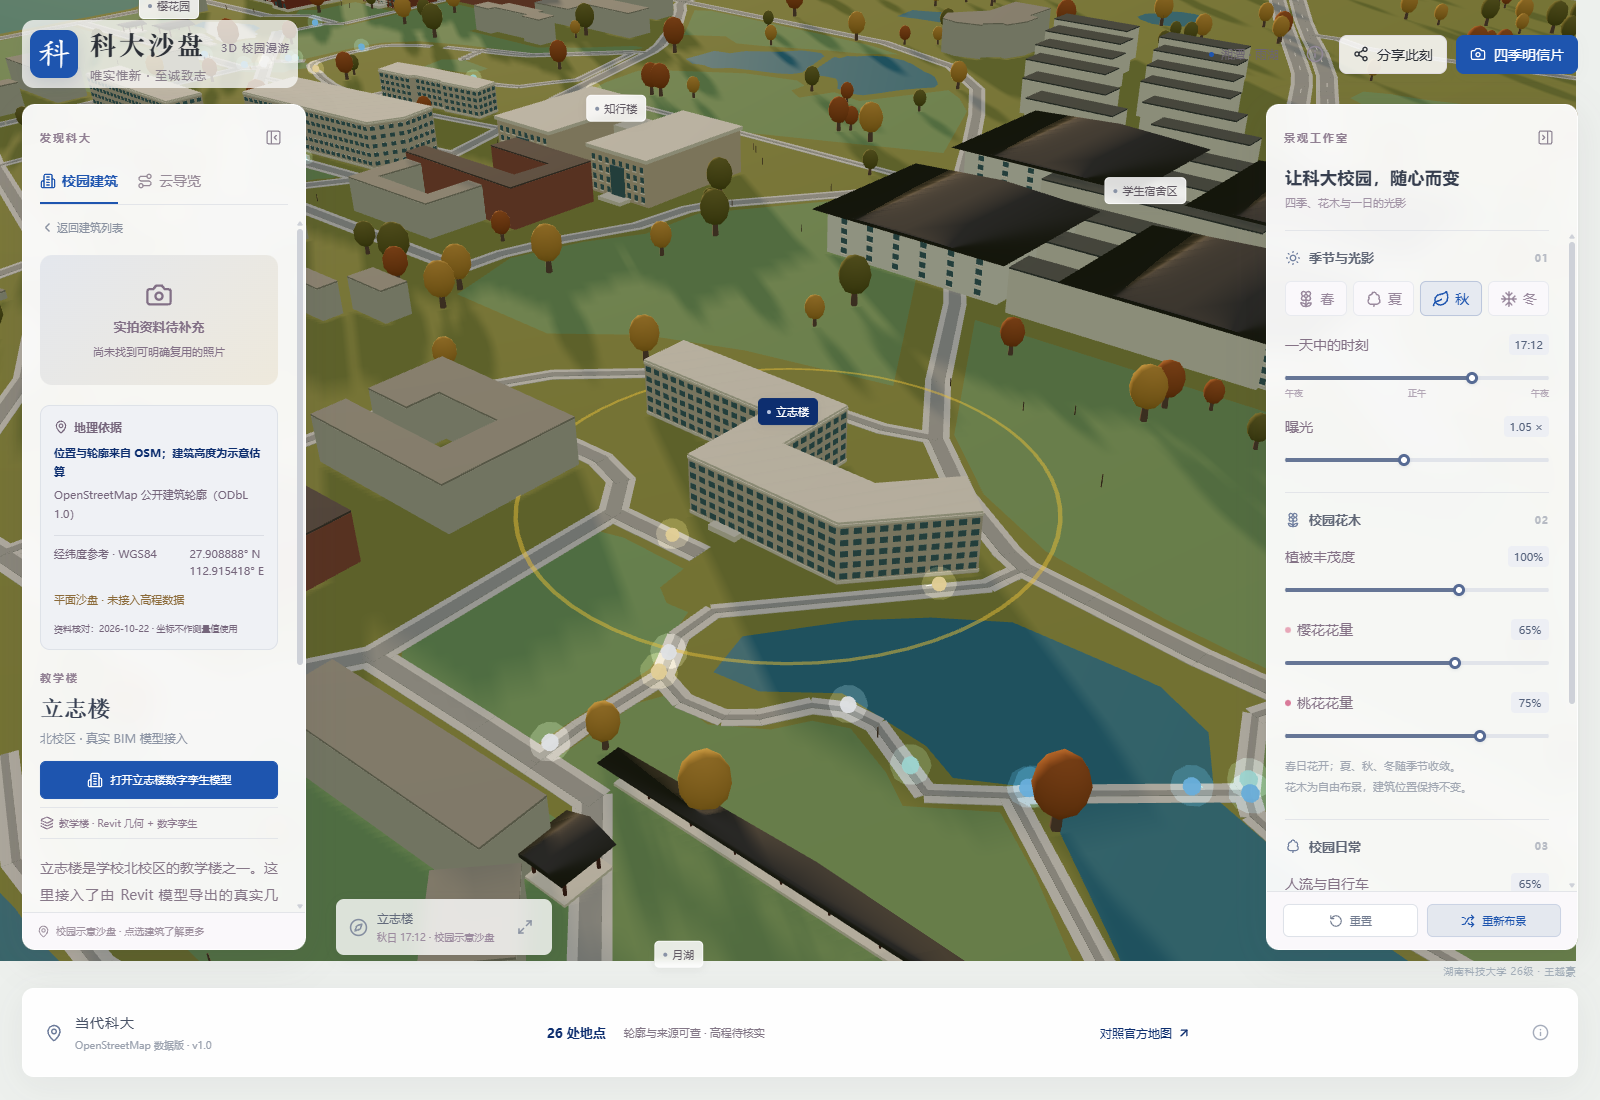
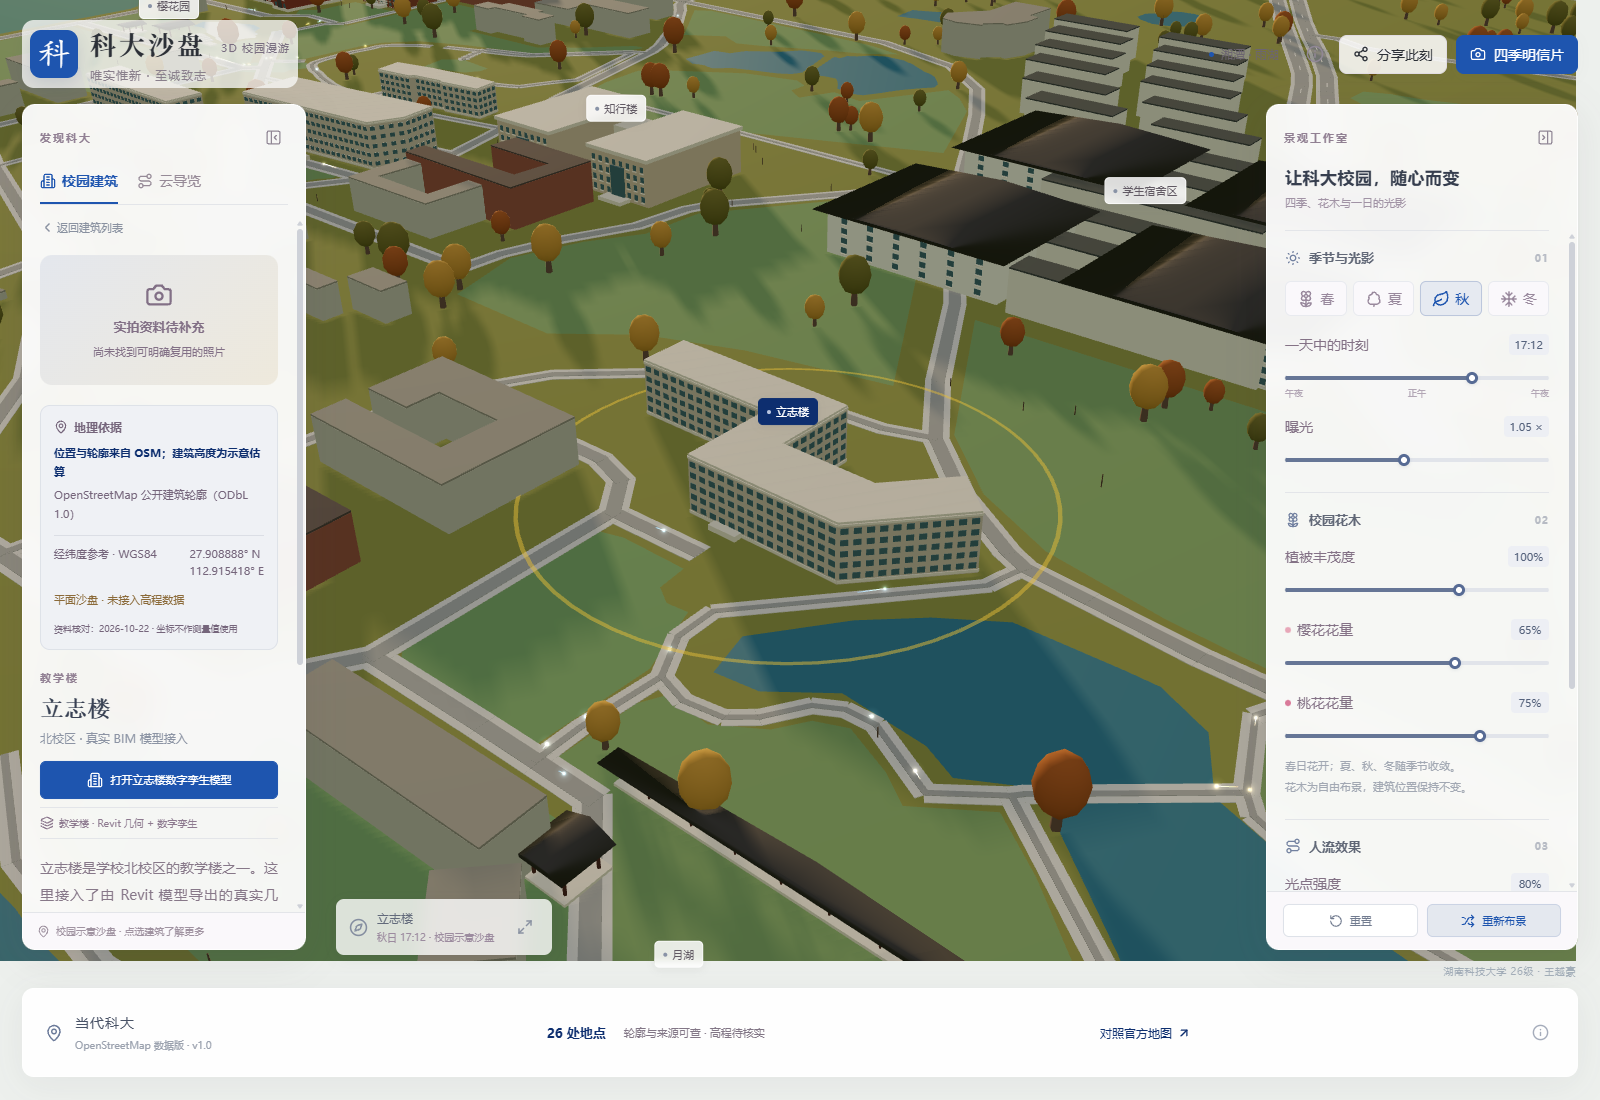
feat: 湖南科技大学 3D 校园沙盘 v1.0（基于清华园境 MIT 代码）

diff --git a/src/scene/CampusScene.tsx b/src/scene/CampusScene.tsx
@@ -79,48 +79,75 @@ function Lighting({state}:{state:SceneState}){
 
 
 function CrowdFlow({activity}:{activity:number}){
- const heads=useRef<THREE.InstancedMesh>(null),glow=useRef<THREE.InstancedMesh>(null),trail=useRef<THREE.LineSegments>(null);
+ const points=useRef<THREE.Points>(null),halo=useRef<THREE.Points>(null),trail=useRef<THREE.LineSegments>(null);
  const {invalidate}=useThree();
  const MAX=320;
- const agents=useMemo(()=>{const rnd=seededRandom(20261023);const pool=roads.filter(r=>r.points.length>1);const out:{ax:number;az:number;bx:number;bz:number;off:number;speed:number;dir:number;color:string}[]=[];for(let n=0;n<1200&&out.length<MAX;n++){const road=pool[Math.floor(rnd()*pool.length)];if(!road||road.points.length<2)continue;const i=Math.floor(rnd()*(road.points.length-1));const a=road.points[i],b=road.points[i+1];const len=Math.hypot(b[0]-a[0],b[1]-a[1]);if(len<6)continue;out.push({ax:a[0],az:a[1],bx:b[0],bz:b[1],off:rnd(),speed:.008+rnd()*.022,dir:rnd()>.5?1:-1,color:['#4d9be6','#f1c674','#eef4ff','#6fd0c8'][out.length%4]});}return out;},[]);
- const count=Math.min(agents.length,Math.max(0,Math.round(activity*4)));
- const posArr=useMemo(()=>new Float32Array(MAX*2*3),[]);
- const colArr=useMemo(()=>new Float32Array(MAX*2*3),[]);
+ const palette=['#f6c46a','#6fb6f0','#9fe3d0','#ffe1b0'];
+ const agents=useMemo(()=>{const rnd=seededRandom(20261023);const pool=roads.filter(r=>r.points.length>1);const out:{ax:number;az:number;bx:number;bz:number;off:number;speed:number;dir:number;color:string}[]=[];for(let n=0;n<1200&&out.length<MAX;n++){const road=pool[Math.floor(rnd()*pool.length)];if(!road||road.points.length<2)continue;const i=Math.floor(rnd()*(road.points.length-1));const a=road.points[i],b=road.points[i+1];const len=Math.hypot(b[0]-a[0],b[1]-a[1]);if(len<6)continue;out.push({ax:a[0],az:a[1],bx:b[0],bz:b[1],off:rnd(),speed:.006+rnd()*.016,dir:rnd()>.5?1:-1,color:palette[out.length%palette.length]});}return out;},[]);
+ const count=Math.min(agents.length,Math.max(0,Math.round(activity*3.6)));
+ const pos=useMemo(()=>new Float32Array(MAX*3),[]);
+ const col=useMemo(()=>new Float32Array(MAX*3),[]);
+ const tpos=useMemo(()=>new Float32Array(MAX*6),[]);
+ const tcol=useMemo(()=>new Float32Array(MAX*6),[]);
+ const sprite=useMemo(()=>{const c=document.createElement('canvas');c.width=c.height=128;const ctx=c.getContext('2d')!;const grad=ctx.createRadialGradient(64,64,0,64,64,64);grad.addColorStop(0,'rgba(255,255,255,1)');grad.addColorStop(.22,'rgba(255,255,255,.9)');grad.addColorStop(.55,'rgba(255,255,255,.22)');grad.addColorStop(1,'rgba(255,255,255,0)');ctx.fillStyle=grad;ctx.fillRect(0,0,128,128);const tex=new THREE.CanvasTexture(c);tex.colorSpace=THREE.SRGBColorSpace;return tex;},[]);
  useEffect(()=>{
-  if(heads.current&&glow.current){heads.current.count=count;glow.current.count=count;agents.slice(0,count).forEach((a,i)=>{const c=new THREE.Color(a.color);heads.current!.setColorAt(i,c);glow.current!.setColorAt(i,c);});if(heads.current.instanceColor)heads.current.instanceColor.needsUpdate=true;if(glow.current.instanceColor)glow.current.instanceColor.needsUpdate=true;}
+  if(points.current)points.current.geometry.setDrawRange(0,count);
+  if(halo.current)halo.current.geometry.setDrawRange(0,count);
   if(trail.current)trail.current.geometry.setDrawRange(0,count*2);
+  agents.slice(0,count).forEach((a,i)=>{const c=new THREE.Color(a.color);col[i*3]=c.r;col[i*3+1]=c.g;col[i*3+2]=c.b;});
+  const ca=points.current?.geometry.attributes.color;if(ca)ca.needsUpdate=true;
   invalidate();
- },[count,agents,invalidate]);
+ },[count,agents,col,invalidate]);
  useFrame(({clock})=>{
-  if(!heads.current||!glow.current||!trail.current||!count)return;
+  if(!points.current||!trail.current||!count)return;
   const t=clock.elapsedTime;
-  const pa=trail.current.geometry.attributes.position as THREE.BufferAttribute;
-  const ca=trail.current.geometry.attributes.color as THREE.BufferAttribute;
-  const pos=pa.array as Float32Array, col=ca.array as Float32Array;
+  const ha=halo.current?.geometry.attributes.position as THREE.BufferAttribute|undefined;
+  const hc=halo.current?.geometry.attributes.color as THREE.BufferAttribute|undefined;
+  const pa=points.current.geometry.attributes.position as THREE.BufferAttribute;
+  const ca=points.current.geometry.attributes.color as THREE.BufferAttribute;
+  const ta=trail.current.geometry.attributes.position as THREE.BufferAttribute;
+  const tca=trail.current.geometry.attributes.color as THREE.BufferAttribute;
+  const pArr=pa.array as Float32Array,pCol=ca.array as Float32Array,tArr=ta.array as Float32Array,tCol=tca.array as Float32Array;
   for(let i=0;i<count;i++){
    const a=agents[i];
    const u=((a.off+t*a.speed*a.dir)%1+1)%1;
    const x=a.ax+(a.bx-a.ax)*u, z=a.az+(a.bz-a.az)*u;
-   const ut=Math.max(0,Math.min(1,u-a.dir*.05));
+   const ut=Math.max(0,Math.min(1,u-a.dir*.1));
    const xt=a.ax+(a.bx-a.ax)*ut, zt=a.az+(a.bz-a.az)*ut;
-   const bob=Math.sin(t*2.2+a.off*20)*.18;
-   setTransform(heads.current,i,x,2.7+bob,z,2.4,2.4,2.4);
-   setTransform(glow.current,i,x,2.7+bob,z,5.6,5.6,5.6);
+   const bob=Math.sin(t*1.6+a.off*18)*.16;
+   pArr[i*3]=x;pArr[i*3+1]=2.8+bob;pArr[i*3+2]=z;
+   pCol[i*3]=pCol[i*3]; // static, but keep for clarity
+   tArr[i*6]=xt;tArr[i*6+1]=2.45;tArr[i*6+2]=zt;
+   tArr[i*6+3]=x;tArr[i*6+4]=2.8+bob;tArr[i*6+5]=z;
    const c=new THREE.Color(a.color);
-   pos[i*6]=xt;pos[i*6+1]=2.5;pos[i*6+2]=zt;
-   pos[i*6+3]=x;pos[i*6+4]=2.7+bob;pos[i*6+5]=z;
-   col[i*6]=c.r*.25;col[i*6+1]=c.g*.25;col[i*6+2]=c.b*.25;
-   col[i*6+3]=c.r;col[i*6+4]=c.g;col[i*6+5]=c.b;
+   tCol[i*6]=c.r*.12;tCol[i*6+1]=c.g*.12;tCol[i*6+2]=c.b*.12;
+   tCol[i*6+3]=c.r*.95;tCol[i*6+4]=c.g*.95;tCol[i*6+5]=c.b*.95;
   }
-  heads.current.instanceMatrix.needsUpdate=true;
-  glow.current.instanceMatrix.needsUpdate=true;
-  pa.needsUpdate=true;ca.needsUpdate=true;
+  pa.needsUpdate=true;ca.needsUpdate=true;ta.needsUpdate=true;tca.needsUpdate=true;if(ha)ha.needsUpdate=true;if(hc)hc.needsUpdate=true;
   invalidate();
  });
  return <group>
-  <instancedMesh ref={glow} args={[undefined,undefined,MAX]} frustumCulled={false}><sphereGeometry args={[1,10,8]}/><meshBasicMaterial transparent opacity={.16} blending={THREE.AdditiveBlending} depthWrite={false}/></instancedMesh>
-  <instancedMesh ref={heads} args={[undefined,undefined,MAX]} frustumCulled={false}><sphereGeometry args={[1,10,8]}/><meshBasicMaterial transparent opacity={.95}/></instancedMesh>
-  <lineSegments ref={trail} frustumCulled={false}><bufferGeometry><bufferAttribute attach="attributes-position" args={[posArr,3]}/><bufferAttribute attach="attributes-color" args={[colArr,3]}/></bufferGeometry><lineBasicMaterial vertexColors transparent opacity={.85} blending={THREE.AdditiveBlending} depthWrite={false}/></lineSegments>
+  <points ref={halo} frustumCulled={false}>
+   <bufferGeometry>
+    <bufferAttribute attach="attributes-position" args={[pos,3]}/>
+    <bufferAttribute attach="attributes-color" args={[col,3]}/>
+   </bufferGeometry>
+   <pointsMaterial map={sprite} vertexColors size={16} sizeAttenuation transparent opacity={.22} depthWrite={false} blending={THREE.AdditiveBlending}/>
+  </points>
+  <points ref={points} frustumCulled={false}>
+   <bufferGeometry>
+    <bufferAttribute attach="attributes-position" args={[pos,3]}/>
+    <bufferAttribute attach="attributes-color" args={[col,3]}/>
+   </bufferGeometry>
+   <pointsMaterial map={sprite} vertexColors size={5.0} sizeAttenuation transparent opacity={.95} depthWrite={false} blending={THREE.AdditiveBlending}/>
+  </points>
+  <lineSegments ref={trail} frustumCulled={false}>
+   <bufferGeometry>
+    <bufferAttribute attach="attributes-position" args={[tpos,3]}/>
+    <bufferAttribute attach="attributes-color" args={[tcol,3]}/>
+   </bufferGeometry>
+   <lineBasicMaterial vertexColors transparent opacity={.62} blending={THREE.AdditiveBlending} depthWrite={false}/>
+  </lineSegments>
  </group>;
 }
 

diff --git a/README.md b/README.md
@@ -52,8 +52,8 @@
 
 ### 人流效果
 
-- 在道路网络上叠加**流动光点 + 拖尾**：光点沿 OSM 道路移动，仅作视觉氛围，不做人流统计或分析。
-- 由右侧「人流效果 → 光点强度」滑杆控制强度；不显示数据图表，也没有行人/自行车模型。
+- 在道路网络上叠加**径向柔光粒子 + 渐隐拖尾**：金/蓝/薄荷色，径向渐变贴图让光点边缘自然消散，不会出现硬边色块。
+- 由右侧「人流效果 → 光点强度」滑杆控制密度；纯视觉氛围，不做人流统计或分析，也没有行人/自行车模型。
 
 ### 立志楼数字孪生
 
